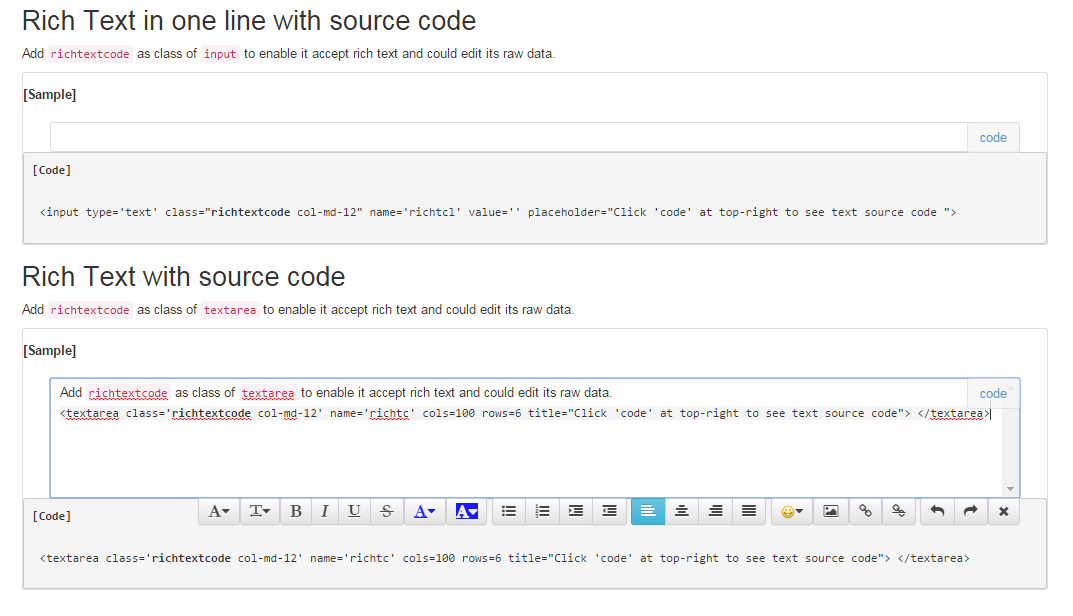
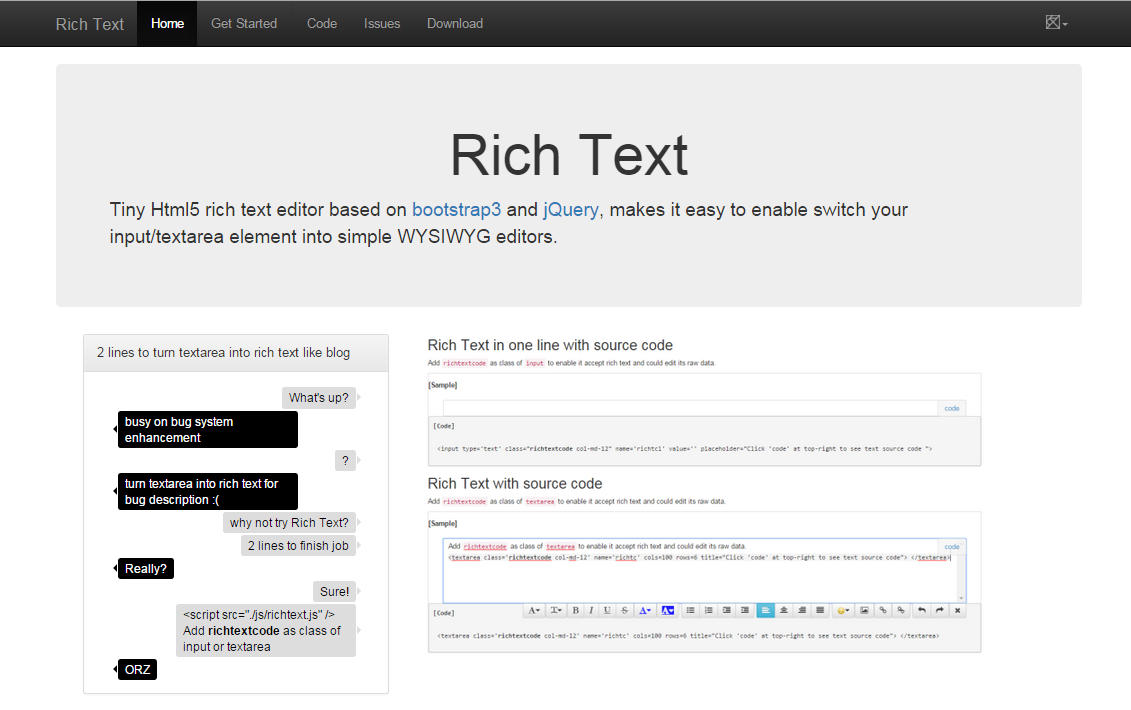
update pages

diff --git a/index.html b/index.html
@@ -18,10 +18,36 @@
 	
 	<link rel='stylesheet' href='./css/style.css' />
 	<script src="./js/jquery.js"></script>
-	<script src="./js/jquery.hotkeys.js"></script>
 	<script src="./js/bootstrap.min.js"></script>
-    <script src="./js/richtext.js"></script>
+    <script src="./js/html2canvas.js"></script>
+    <script src="./js/itman70s.menu.js"></script>
+	
 <style>
+.talk {
+	opacity: 1;
+	position: relative;
+}
+.talk.right {
+	float: left!important;
+}
+.talk.left {
+	float: right!important;
+}
+.tooltip.left {
+	right: 0px;
+	left: auto;
+}
+
+.tooltip.left > .tooltip-arrow {
+	border-left-color: #ddd;
+}
+.tooltip.left > .tooltip-inner {
+	color: #000;
+	background-color: #ddd;
+}
+
+
+
 .bs-example {
   width: 100%;
   margin-right: 0;
@@ -44,151 +70,157 @@
 	width: 100%;
 	padding: 15px;
 }
+
+.filter { 
+  margin: 2px;
+  display: inline-block;
+  background-color: #fff;
+  border: 1px solid #ddd;
+  border-radius: 17px;
+  padding: 6px;
+  min-width: 34px;
+  height: 34px;
+  color: #337ab7;
+  text-decoration: none;
+  text-align: center;
+  vertical-align: middle;
+}
+.filter:hover, .filter:focus{
+  text-decoration: none;
+  background-color: #eee;
+}
+
+.filter-circle {
+  font-size: 22px;
+}
+.filter .badge {
+  color: #5bc0de;
+  background-color: #eee;
+}
+.filter:hover .badge, .filter:focus .badge {
+  color: #337ab7;
+  background-color: #ddd;
+}
+.carousel>.carousel-inner>.item>img {
+	height: 380px;
+	padding: 20px;
+	padding-bottom: 120px;
+	max-width: 95%;
+	margin-right: auto;
+  margin-left: auto;
+}
+div.carousel-caption {
+	color: #000000;
+	padding: 0px 0px 20px 0px;
+	left: 0px;
+	right: 0px;
+}
+ol.carousel-indicators li.active, ol.carousel-indicators li {
+	border: 1px solid #000;
+}
+label.form-control {
+	height: auto;
+	font-weight: inherit;
+}
+.red{color: #FF0000;}
+.green{color: #008000;}
+.yellow{color: #FFFF00;}
+.gold{color: #FFD700;}
+.orange{color: #FFA500;}
+.pink{color: #FFC0CB;}
+.cyan{color: #00FFFF;}
+.blue{color: #0000FF;}
+.deepskyblue{color: #00BFFF;}
+.purple{color: #800080;}
+.black{color: #000000;}
+.silver{color: #C0C0C0;}
+.maroon{color: #800000;}
+.white{color: #FFFFFF;}
+body { margin-top: 70px; }
+
 </style>
 </head>
 
-<body >		
-<a href="https://github.com/ItMan70s"><img style="position: absolute; top: 0; right: 0; border: 0;" src="img/forkme.png" alt="Fork me on GitHub"></a>
-
+<body >
+<nav class="navbar navbar-inverse navbar-fixed-top" role="navigation">
 <div class="container">
-	<div class="jumbotron homepage" style="margin-top:40px" align="center">
-		<h1>Html5 Rich Text</h1>
-	<p>Tiny Html5 rich text editor based on <a href="http://twitter.github.com/bootstrap/" target="_blank">bootstrap3</a> and <a href="http://jquery.com/">jQuery</a>, makes it easy to enable switch your input/textarea element into simple WYSIWYG editors. </p>
-	</div>
-	
-  <h1 class="page-header">Usage</h1>
-  
-		<h2>Rich Text without tool bar</h2>
-		<p>Add <code>divinput</code> as class of <code>input</code> to enable it accept rich text.</p>
-		<div class="bs-example"><label>[Sample]</label>
-			<div class="example"><input type='text' class="divinput form-control" name='simpleinput' value='' placeholder="A sample for rich text without tool bar, try drop/copy colourful text to here"></div>
-			<pre><label>[Code]</label>
-			<div class="col-md-0"> &lt;input type='text' class="<b>divinput</b>" name='simpleinput' value='' placeholder="A sample for rich text without tool bar, try drop/copy colourful text to here"&gt; </div>
-		</pre>
-		</div>
-		
-		<h2>Rich Text in one line</h2>
-		<p>Add <code>richtext</code> as class of <code>input</code> to enable it accept rich text.</p>
-		<div class="bs-example"><label>[Sample]</label>
-			<div class="example"><input type='text' class="richtext form-control" name='richtl' value=''></div>
-			<pre><label>[Code]</label>
-			<div class="col-md-0"> &lt;input type='text' class="<b>richtext</b> form-control" name='richtl' value='' &gt; </div>
-		</pre>
-		</div>
-		
-		<h2>Rich Text</h2>
-		<p>Add <code>richtext</code> as class of <code>textarea</code> to enable it accept rich text.</p>
-		<div class="bs-example"><label>[Sample]</label>
-			<div class="example"><textarea class='richtext' name='richt' cols=100 rows=5 ></textarea></div>
-			<pre><label>[Code]</label>
-			<div class="col-md-0"> &lt;textarea class='<b>richtext</b>' name='richt' cols=100 rows=5 &gt; &lt;/textarea&gt;</div>
-		</pre>
-		</div>
-		
-		<h2>Rich Text in one line with source code </h2>
-		<p>Add <code>richtextcode</code> as class of <code>input</code> to enable it accept rich text and could edit its raw data.</p>
-		<div class="bs-example"><label>[Sample]</label>
-			<div class="example"><input type='text' class="richtextcode form-control col-md-12" name='richtcl' value='' placeholder="Click 'code' at top-right to see text source code"></div>
-			<pre><label>[Code]</label>
-			<div class="col-md-0"> &lt;input type='text' class="<b>richtextcode</b> col-md-12" name='richtcl' value='' placeholder="Click 'code' at top-right to see text source code "&gt; </div>
-		</pre>
-		</div>
-		
-		<h2>Rich Text with source code </h2>
-		<p>Add <code>richtextcode</code> as class of <code>textarea</code> to enable it accept rich text and could edit its raw data.</p>
-		<div class="bs-example"><label>[Sample]</label>
-			<div class="example"><textarea class='richtextcode col-md-12' name='richtc' cols=100 rows=6 title="Click 'code' at top-right to see text source code"></textarea></div>
-			<pre><label>[Code]</label>
-			<div class="col-md-0"> &lt;textarea class='<b>richtextcode</b> col-md-12' name='richtc' cols=100 rows=6 title="Click 'code' at top-right to see text source code"&gt; &lt;/textarea&gt;</div>
-		</pre>
-		</div>
-		
-		
-		<h2>Hotkeys for Rich Text</h2>
-		<div class="bs-example"><p>Following hotkeys could be used in any rich text box even there is no such button in tool bar:</p>
-<pre>
-	'ctrl+b': 'bold',
-	'ctrl+i': 'italic',
-	'ctrl+u': 'underline',
-	'ctrl+z': 'undo',
-	'ctrl+y': 'redo',
-	'ctrl+l': 'justify left',
-	'ctrl+r': 'justify right',
-	'ctrl+e': 'justify center',
-	'ctrl+j': 'justify full',
-	'shift+tab': 'outdent',
-	'tab': 'indent'
-</pre>
-		</div>
-		
-		<h2>Options for rich text bar</h2>
-		<div class="bs-example"><p>To use icons, initial richTextOptions in html with local icons like following:</p>
-<pre>
-&lt;script&gt;
-	richTextOptions = {"icons": ["img/b1.png", "img/b2.png", "img/b3.png", "img/b4.png"]};
-&lt;/script&gt;
-</pre>
-		</div>
-		<div class="bs-example"><p>To always show tool bar, richTextOptions["autohide"] = "no" in html or like following:</p>
-<pre>
-&lt;script&gt;
-	richTextOptions = {"autohide": "no"};
-&lt;/script&gt;
-</pre>
-		</div>
-		<div class="bs-example"><p>To hide buttons in tool bar for all rich text, change following:</p>
-<pre>
-&lt;script&gt;
-	richTextOptions["font"] = "no";  //  hide following buttons from <i class="icon-font"></i> to <i class="icon-font" style="background-color: blue;color:silver;"> </i>
-	richTextOptions["sfont"] = "yes"; // hide font, font color, font size, only show simple font style, including: B I U S
-	richTextOptions["p"] = "no";  // hide following buttons from <i class="icon-indent-right"></i> to <i class="icon-align-justify"> </i>
-	richTextOptions["link"] = "no";  // hide following buttons: <i class="icon-link"></i>  <i class="icon-link" style="text-decoration: line-through;"> </i>
-	richTextOptions["img"] = "no";  // hide following button: <i class="icon-picture"> </i>
-	richTextOptions["undo"] = "no"; // hide following buttons: <i class="icon-reply"></i>  <i class="icon-share-alt"> </i>
-	richTextOptions["clear"] = "no"; // hide following button: <i class="icon-remove"></i>
-&lt;/script&gt;
-</pre>
-		</div>
-		
-		<h2>JS/CSS files required </h2>
-		<p><pre class="prettyprint linenums">
-&lt;link rel='stylesheet' href='./css/bootstrap.min.css' /&gt;
-&lt;link rel="stylesheet" href="./css/bootstrap-theme.min.css"&gt;
-&lt;link rel='stylesheet' href='./css/font-awesome.min.css' /&gt;
-&lt;!--[if IE 7]&gt;
-&lt;link rel="stylesheet" href="./css/font-awesome-ie7.min.css"&gt;
-&lt;![endif]--&gt;
-
-&lt;link rel='stylesheet' href='./css/style.css' /&gt;
-&lt;script src="./js/jquery.js"&gt;&lt;/script&gt;
-&lt;script src="./js/jquery.hotkeys.js"&gt;&lt;/script&gt;
-&lt;script src="./js/bootstrap.min.js"&gt;&lt;/script&gt;
-&lt;script src="./js/richtext.js"&gt;&lt;/script&gt;
-</pre></p>
-		
-		<h3>Dependencies</h3>
-		<hr />
-		<p>
-			<ul>
-				<li><a href="http://jquery.com/">jQuery</a></li>
-				<li><a href="https://github.com/jeresig/jquery.hotkeys">jQuery HotKeys</a></li>
-				<li><a href="http://twitter.github.com/bootstrap/">Twitter Bootstrap</a></li>
-				<li><a href="http://fontawesome.io">Font Awesome</a></li>
-			</ul>
-		</p> 
+  <a class="navbar-brand" href="http://itman70s.github.io/"><img class="pull-left" src="favicon.ico" title="ITMan70s" > &nbsp;ITMan70s</a>
+	<ul class="nav navbar-nav">
+		<li class="active"><a href="#">Home</a></li>
+		<li><a href="https://github.com/ItMan70s/tangrammy">Tangrammy</a></li>
+		<li><a href="richtext/index.html">Rich Text</a></li>
+		<li><a href="about.html">ITMan70s ?</a></li>
+	</ul>
+	<ul class="nav navbar-nav pull-right">
+		<li class="dropdown">
+          <a href="javascript:;" class="dropdown-toggle itman70s_menu" data-toggle="dropdown" data-placement="right" title="All about ItMan70s.github.io"><img class="pull-left" src="img/logo_w.png"> <b class="caret"></b></a>
+          <ul class="dropdown-menu itman70s_sub_menu">
+          </ul>
+        </li>
+	</ul>
 </div>
-  
+<a href="https://github.com/ItMan70s"><img style="position: absolute; top: 0; right: 0; border: 0;" src="img/forkme.png" title="Fork me on GitHub"></a>
+</nav>
+<div class="container">
+<a name="info"></a>
 
+<div class="col-xs-12" style="padding-top:10px;">
+	<div id="carousel-example-generic" class="carousel slide" data-ride="carousel">
+  <!-- Indicators -->
+  <ol class="carousel-indicators">
+    <li data-target="#carousel-example-generic" data-slide-to="0" class="active"></li>
+    <li data-target="#carousel-example-generic" data-slide-to="1"></li>
+  </ol>
 
-<script>
-	richTextOptions = {"icons": ["img/e1.png", "img/e2.png", "img/e3.png", "img/e4.png", "img/e5.png", "img/e6.png", "img/e7.png", "img/e8.png", 
-	"img/m1.png", "img/m2.png", "img/m3.png", "img/m4.png", "img/c1.png", "img/c2.png", "img/c3.png", "img/c4.png", 
-	"img/a1.png", "img/a2.png", "img/a3.png", "img/a4.png", "img/a5.png", "img/a6.png", "img/a7.png", "img/a8.png", 
-	"img/b1.png", "img/b2.png", "img/b3.png", "img/b4.png", "img/b5.png", "img/b6.png", "img/b7.png", "img/b8.png", 
-	"img/f1.png", "img/f2.png", "img/f3.png", "img/f4.png", "img/f5.png", "img/f6.png", "img/f7.png", "img/f8.png", 
-	"img/t1.png", "img/t2.png", "img/t3.png", "img/t4.png", "img/t5.png", "img/t6.png", "img/t7.png", "img/t8.png"]};
+  <!-- Wrapper for slides -->
+  <div class="carousel-inner" role="listbox">
+    <div class="item active">
+      <img src="img/richtext.png" title="richtext">
+	  <div class="carousel-caption">
+		<h3>Rich Text</h3>
+		<p><a href="http://itman70s.github.io/richtext/">http://itman70s.github.io/richtext/ </a><br />At least 2 lines turn input/textarea into rich text editor</p>
+	  </div>
+    </div>
+    <div class="item">
+      <img src="img/tangrammy.PNG" title="Tangrammy">
+	  <div class="carousel-caption">
+		<h3>Tangrammy</h3>
+		<p><a href="http://itman70s.github.io/tangrammy/">http://itman70s.github.io/tangrammy/ </a><br />10 minutes to build your own web application</p>
+	  </div>
+    </div>
+  </div>
 
-</script>
+  <!-- Controls -->
+  <a class="carousel-control" style="left: 0px; width:40%;" href="#carousel-example-generic" role="button" data-slide="prev" title="Previous">
+    <span class="glyphicon glyphicon-chevron-left icon-angle-left" aria-hidden="true"></span>
+    <span class="sr-only">Previous</span>
+  </a>
+  <a class="carousel-control" style="right: 0px;left: auto;; width:40%;" href="#carousel-example-generic" role="button" data-slide="next" title="Next">
+    <span class="glyphicon glyphicon-chevron-right icon-angle-right" aria-hidden="true"></span>
+    <span class="sr-only">Next</span>
+  </a>
+</div>
+</div>
+	
+<div class="col-xs-12">
+	<div class="col-xs-4"><div class="well" style="height: 200px;padding-top:0px;padding-bottom:0px;">
+		<h2>Tangrammy</h2>
+		<p>10 minutes to build your own web application. </p>
+		<p><a class="btn btn-default" href="/richtext/index.html">View Tangrammy »</a></p>
+	</div></div>
+	<div class="col-xs-4"><div class="well"  style="height: 200px;padding-top:0px;padding-bottom:0px;">
+		<h2>Rich Text</h2>
+		<p>Tiny Html5 rich text editor based on bootstrap3 and jQuery, makes it easy to enable switch your input/textarea into simple WYSIWYG editors. </p>
+		<p><a class="btn btn-default" href="/richtext/index.html">View Demo »</a></p>
+	</div></div>
+	<div class="col-xs-4"><div class="well"  style="height: 200px;padding-top:0px;padding-bottom:0px;">
+		<h2> </h2>
+		<p>At least 2 lines turn input/textarea into rich text editor. </p>
+		<p><a class="btn btn-default" href="/richtext/index.html">View  »</a></p>
+	</div></div>
 
+</div>
+
+</div>
 </body>
 </html>

diff --git a/about.html b/about.html
@@ -20,6 +20,7 @@
 	<script src="./js/jquery.js"></script>
 	<script src="./js/bootstrap.min.js"></script>
     <script src="./js/html2canvas.js"></script>
+    <script src="./js/itman70s.menu.js"></script>
 	
 <style>
 .bs-example {
@@ -136,14 +137,22 @@ body { margin-top: 70px; }
 <body >
 <nav class="navbar navbar-inverse navbar-fixed-top" role="navigation">
 <div class="container">
-  <a class="navbar-brand" href="#">关于作者</a>
+  <a class="navbar-brand" href="http://itman70s.github.io/"><img class="pull-left" src="favicon.ico" title="ITMan70s" > &nbsp;ITMan70s</a>
 	<ul class="nav navbar-nav">
-		<li class="active"><a href="#info">基本信息</a></li>
+		<li class="active"><a href="#">关于作者</a></li>
 		<li><a href="#skill">技能</a></li>
 		<li><a href="#edu">教育</a></li>
 		<li><a href="#project">项目经验</a></li>
 	</ul>
 	<ul class="nav navbar-nav pull-right">
+		<li class="dropdown">
+          <a href="javascript:;" class="dropdown-toggle itman70s_menu" data-toggle="dropdown" data-placement="right" title="All about ItMan70s.github.io"><img class="pull-left" src="img/logo_w.png"> <b class="caret"></b></a>
+          <ul class="dropdown-menu itman70s_sub_menu">
+          </ul>
+        </li>
+	</ul>
+	<ul class="nav navbar-nav pull-right">
+		<li class="print"><a href="http://itman70s.github.io/about.pdf" data-toggle="dropdown" data-placement="bottom" title="下载PDF格式简历">下载</a></li>
 		<li class="print"><a href="javascript:;">打印</a></li>
 	</ul>
 </div>
@@ -162,7 +171,7 @@ body { margin-top: 70px; }
 		<div class="container-fluid"><div class="navbar-header"><h2>基本信息</h2></div></div>
 		<div class="form-horizontal"><div class="form-group"><label class="col-xs-3 control-label">姓名</label><div class="col-xs-8"><label class="form-control">Job  （男）</label></div></div></div>
 		<div class="form-horizontal"><div class="form-group"><label class="col-xs-3 control-label">出生日期</label><div class="col-xs-8"><label class="form-control">1979-4-23</label></div></div></div>
-		<div class="form-horizontal"><div class="form-group"><label class="col-xs-3 control-label">联系电话</label><div class="col-xs-8"><label class="form-control">13718370479</label></div></div></div>
+		<div class="form-horizontal"><div class="form-group"><label class="col-xs-3 control-label">联系电话</label><div class="col-xs-8"><label class="form-control">15011342940</label></div></div></div>
 		<div class="form-horizontal"><div class="form-group"><label class="col-xs-3 control-label">Email</label><div class="col-xs-8"><label class="form-control">zao-bao.zhang@hp.com</label></div></div></div>
 		<div class="form-horizontal"><div class="form-group"><label class="col-xs-3 control-label">居住地</label><div class="col-xs-8"><label class="form-control">北京</label></div></div></div>
 	<a name="skill"></a>

diff --git a/js/itman70s.menu.js b/js/itman70s.menu.js
@@ -1,0 +1,16 @@
+
+var itman70s_menu = '<li><a href="http://itman70s.github.io/about.html" data-placement="left" title="To ItMan70s.github.io">ITMan70s</a></li>\n' + 
+            '<li><a href="https://github.com/ItMan70s/tangrammy" data-placement="left" title="To Tangrammy page">Tangrammy</a></li>\n' + 
+            '<li><a href="http://itman70s.github.io/richtext" data-placement="left" title="To github.io/richtext">Rich Text</a></li>\n' + 
+            '<li><a href="http://itman70s.github.io/about.html" data-placement="left" title="To know itman70s?">About</a></li>\n';
+
+$(document).ready(function(){
+try {
+	var head = $(".itman70s_menu");
+	head.attr("title", "All about ItMan70s.github.io");
+	head.find("img").attr("src", "/img/logo_w.png");
+	
+	$(".itman70s_sub_menu").html(itman70s_menu);
+	$('[data-placement]').tooltip();
+} catch(e) {}
+});
